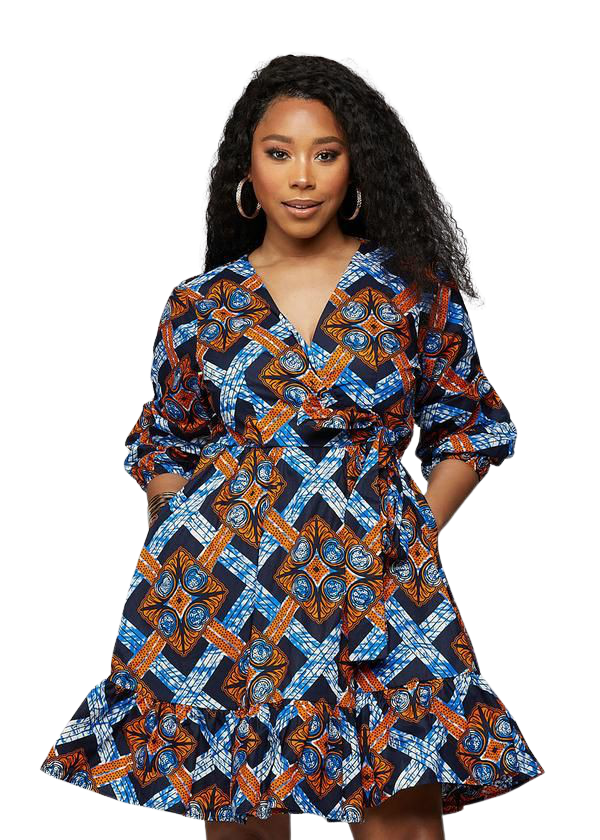
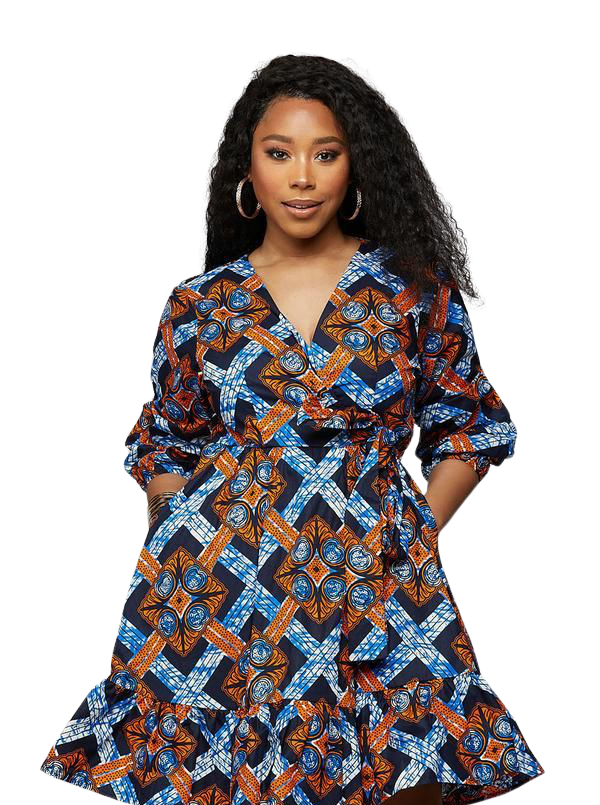
product/feature

diff --git a/index.html b/index.html
@@ -65,7 +65,7 @@
         <div class="head-content-wrapper">
 
             <figure class="img-wrapper">
-                <img src="/images/either1.png" alt="" class="header-img">
+                <img src="/images/either2.png" alt="" class="header-img">
             </figure>
 
             <div class="head-content">
@@ -121,7 +121,100 @@
             </section>
 
             <section class="product-center container">
-                
+                <div class="product">
+                    <div class="product-header">
+                        <img src="/images/bag1.jpg" alt="">
+                        <ul class="icons">
+                            <span><i class="far fa-heart"></i></span>
+                            <span><i class="fas fa-shopping-bag"></i></span>
+                            <span><i class="fas fa-search"></i></span>
+                        </ul>
+                    </div>
+                    <div class="product-footer">
+                        <a href="#">
+                            <h3>Girl's Bag</h3>
+                        </a>
+                        <div class="rating">
+                            <i class="fas fa-star"></i>
+                            <i class="fas fa-star"></i>
+                            <i class="fas fa-star"></i>
+                            <i class="fas fa-star"></i>
+                            <i class="far fa-star"></i>
+                        </div>
+                        <h4 class="price">$50</h4>
+                    </div>
+                </div>
+
+                <div class="product">
+                    <div class="product-header">
+                        <img src="/images/shoe-w3.jpg" alt="">
+                        <ul class="icons">
+                            <span><i class="far fa-heart"></i></span>
+                            <span><i class="fas fa-shopping-bag"></i></span>
+                            <span><i class="fa fa-search"></i></span>
+                        </ul>
+                    </div>
+                    <div class="product-footer">
+                        <a href="#">
+                            <h3>Girl's Bag</h3>
+                        </a>
+                        <div class="rating">
+                            <i class="fas fa-star"></i>
+                            <i class="fas fa-star"></i>
+                            <i class="fas fa-star"></i>
+                            <i class="fas fa-star"></i>
+                            <i class="far fa-star"></i>
+                        </div>
+                        <h4 class="price">$80</h4>
+                    </div>
+                </div>
+
+                <div class="product">
+                    <div class="product-header">
+                        <img src="/images/ann.png" alt="">
+                        <ul class="icons">
+                            <span><i class="far fa-heart"></i></span>
+                            <span><i class="fas fa-shopping-bag"></i></span>
+                            <span><i class="fas fa-search"></i></span>
+                        </ul>
+                    </div>
+                    <div class="product-footer">
+                        <a href="#">
+                            <h3>Girl's Bag</h3>
+                        </a>
+                        <div class="rating">
+                            <i class="fas fa-star"></i>
+                            <i class="fas fa-star"></i>
+                            <i class="fas fa-star"></i>
+                            <i class="fas fa-star"></i>
+                            <i class="far fa-star"></i>
+                        </div>
+                        <h4 class="price">$40</h4>
+                    </div>
+                </div>
+                <div class="product">
+                    <div class="product-header">
+                        <img src="/images/bag1.jpg" alt="">
+                        <ul class="icons">
+                            <span><i class="far fa-heart"></i></span>
+                            <span><i class="fas fa-shopping-bag"></i></span>
+                            <span><i class="fas fa-search"></i></span>
+                        </ul>
+                    </div>
+                    <div class="product-footer">
+                        <a href="#">
+                            <h3>Girl's Bag</h3>
+                        </a>
+                        <div class="rating">
+                            <i class="fas fa-star"></i>
+                            <i class="fas fa-star"></i>
+                            <i class="fas fa-star"></i>
+                            <i class="fas fa-star"></i>
+                            <i class="far fa-star"></i>
+                        </div>
+                        <h4 class="price">$100</h4>
+                    </div>
+                </div>
             </section>
         </article>
     </main>

diff --git a/css/style.css b/css/style.css
@@ -250,7 +250,6 @@ p{color:#8a8a8a;}
     display: flex;
     align-items: center;
     justify-content: center;
-    margin-bottom: 2em;
 }
 .img-wrapper img{
     height: 10%;
@@ -264,7 +263,7 @@ p{color:#8a8a8a;}
     color: var(--color-accent);
 }
 .head-content h1 span{
-    /* color: #253b70; */
+    color: #253b70;
     display: block;
     text-shadow: var(--box-shadow);
 }
@@ -377,71 +376,129 @@ p{color:#8a8a8a;}
     }
     .advert-center{
         display: grid;
-        grid-template-columns: repeat(auto-fit, minmax(80px, 1fr));
+        grid-template-columns: repeat(auto-fit, minmax(1rem, 1fr));
         gap: 3rem;
     }
-    .advert-box{
-        position: relative;
-        color: #fff;
-        height: 27rem;
-        border-radius: 1.6rem;
-        padding: 1.6rem;
-        overflow: hidden;
-        z-index: 1;
-    }
-
-    .advert-box img{
-        position: absolute;
-        bottom: 0;
-        left: -20%;
-        height: 100%;
-        width: 35rem;
-        z-index: -1;
-        display: flex;
-        align-items: center;
-        justify-content: center;
-    }
-    .advert-box:nth-child(1){
-        background: #f5c5d1;
-    }
     .advert-box:nth-child(2){
-        background: #a1d1df;
         margin: 0;
-    }
-    .advert-box:nth-child(3){
-        background: #e5bc00;
-    }
-    .advert-box .dotted{
-        position: relative;
-        height: 100%;
-        border: 2px dashed #f1f1f1;
-        border-radius: 1rem;
-    }
-    .advert-box .content{
-        position: absolute;
-        top: 50%;
-        right: 5%;
-        transform: translate(0,-50%);
-    }
-    .advert-box .content h2,
-    .advert-box .content h4
-    {
-        text-shadow: 5px 6px 0 rgba(37,59,112,0.1);
-    }
-    .advert-box .content h2{
-        margin-bottom: .5em;
-        border-bottom: 3px solid #fff;
-        color: #fff;
-    }
-    .advert-box .content h4
-    {
-        font-size: 1.2rem;
-        font-family: var(--font-family-secondary);
     }
 }
 /* featured */
 .title{
-    
+    margin: 4em 4em 5em;
+    text-align: center;
+}
+.title h1{
+    font-size: 2rem;
+    display: inline-block;
+    position: relative;
+    color: #253b70;
+    z-index: 0;
+}
+.title h1::after{
+    content: '';
+    position: absolute;
+    left: 50%;
+    bottom: -30%;
+    transform: translate(-50% , -50%);
+    background: #ccc;
+    width: 50%;
+    height: 3px;
+}
+
+/* product */
+.product{
+    height: 100%;
+    /* background: #fff; */
+    box-shadow: 0 .5rem 1.5rem rgba(0,0,0,0.15);
+    border-radius: 1rem;
+    text-align: center;
+    margin: 2em 0;
+    transition: all .3s ease-in-out;
+    overflow: hidden;
+}
+.product:hover{
+    box-shadow: 0 .5rem 1.5rem rgba(0,0,0,0.25);
+}
+.product-header{
+    position: relative;
+    background: #f6f2f1;
+    transition: all .3s ease-in-out;
+    z-index: 0;
+}
+.product-header img{
+    height: 100%;
+}
+.product-footer{
+    padding: 2rem 1.6rem 1.6rem;
+}
+.product-footer h3{
+    font-size: var(--font-size-h3);
+}
+.rating{
+    color: #43b3d9;
+}
+/* .product-footer .price{
+    color: #ff7c9c;
+    font-size: 2rem;
+} */
+
+.product:hover .product-header::after{
+    content: '';
+    position: absolute;
+    width: 100%;
+    height: 100%;
+    left: 0;
+    top: 0;
+    border-radius: 1rem 1rem 0 0;
+    background: rgba(0,0,0,0.5);
+    z-index: 1;
+    transition: all .5s ease-in-out;
+}
+.product-header .icons{
+    position: absolute;
+    top: 50%;
+    right: 5%;
+    transform: translate(0, -50%) scale(0);
+    z-index: 2;
+    opacity: 0;
+    transition: all .5s ease-in-out;
+}
+.product-header .icons span{
+    background: #fff;
+    display: block;
+    border-radius: 50%;
+    padding: .5rem .6rem;
+    line-height: 2rem;
+    cursor: pointer;
+}
+.product-header .icons span i{
+    transition: all .5s ease-in-out;
+}
+.product-header .icons span:not(:last-child){
+    margin-bottom: .5rem;
+}
+.product-header .icons span:hover{
+    background: #ff7c9c;
+    color: #fff;
+}
+.product:hover .icons{
+    opacity: 1;
+    transform: translate(0, -50%) scale(1);
+}
+.product:hover .icons a{
+    display: block;
+    margin-bottom: .5rem;
+}
+@media (min-width: 768px){
+    .product-center{
+        display: grid;
+        grid-template-columns: repeat(auto-fit , minmax(2rem, 1fr));
+        grid-gap: 7rem 3rem;
+    }
+    .product{
+        margin: 0;
+    }
 }
 /* brands */
 .small-container{
